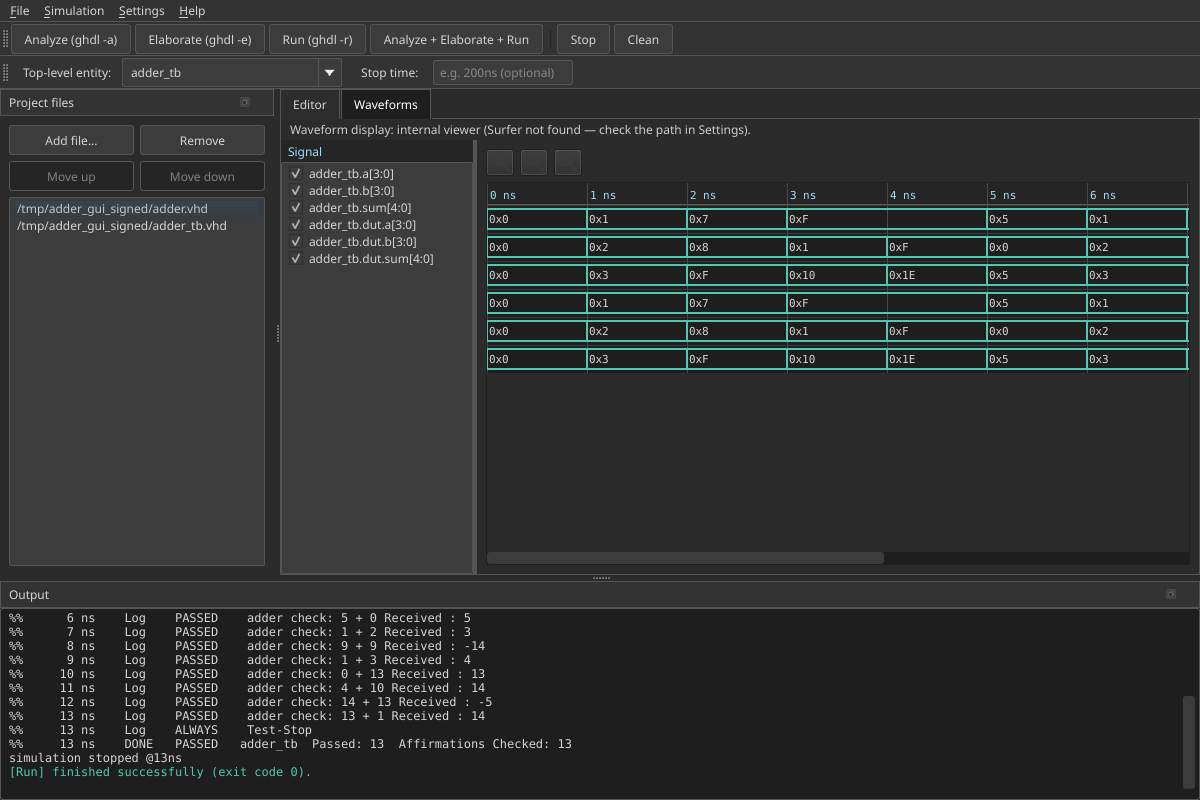
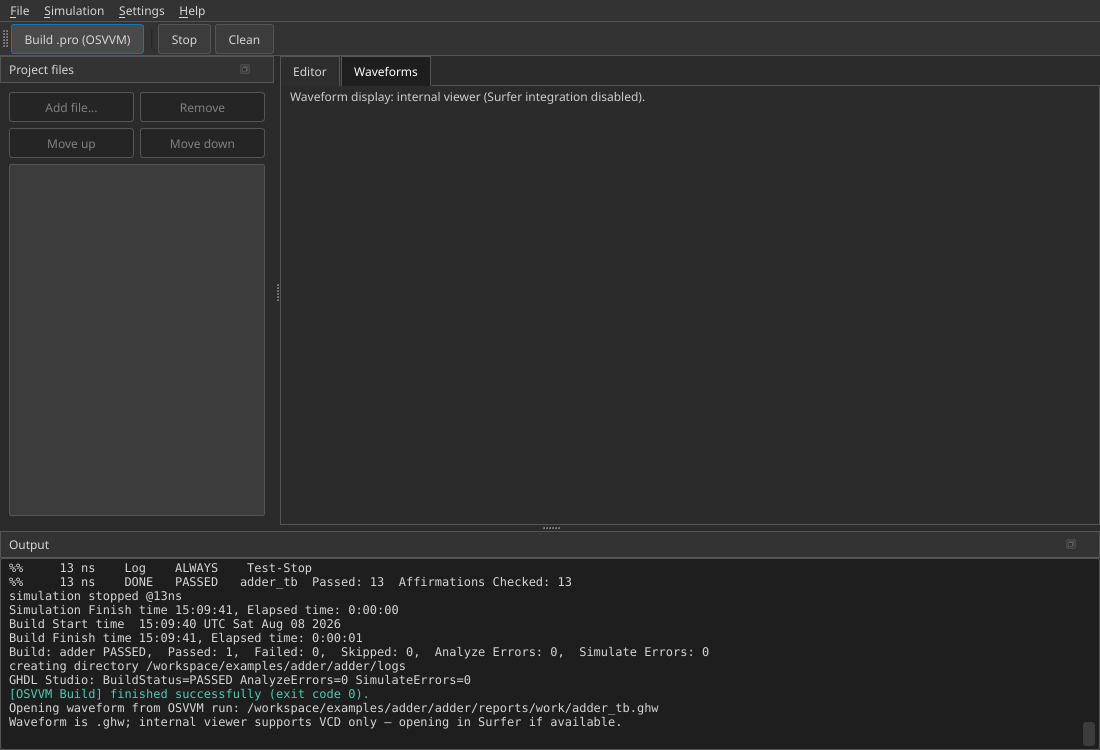
Update adder README screenshot for OSVVM .pro mode
Replace docs/images/adder_osvvm_run.png with a Build .pro (OSVVM)
success shot (13 affirmations PASSED) and ignore local OSVVM build
artefacts under examples/adder/.

diff --git a/README.md b/README.md
@@ -330,9 +330,10 @@ Files in `examples/adder/`:
    (`SetSaveWaves` writes a `.ghw` when possible). The first build compiles
    OSVVM and takes longer; later runs reuse `VHDL_LIBS/`.
 
-Successful run of `adder_tb` (13 OSVVM affirmations passed), with waveforms and Output log:
+Successful **OSVVM mode** run of `examples/adder/adder.pro`
+(**Build .pro (OSVVM)** — 13 affirmations passed, exit code 0):
 
-![GHDL Studio running the adder OSVVM testbench — all checks PASSED](docs/images/adder_osvvm_run.png)
+![GHDL Studio OSVVM mode: adder.pro build PASSED](docs/images/adder_osvvm_run.png)
 
 ## Development & tests
 
